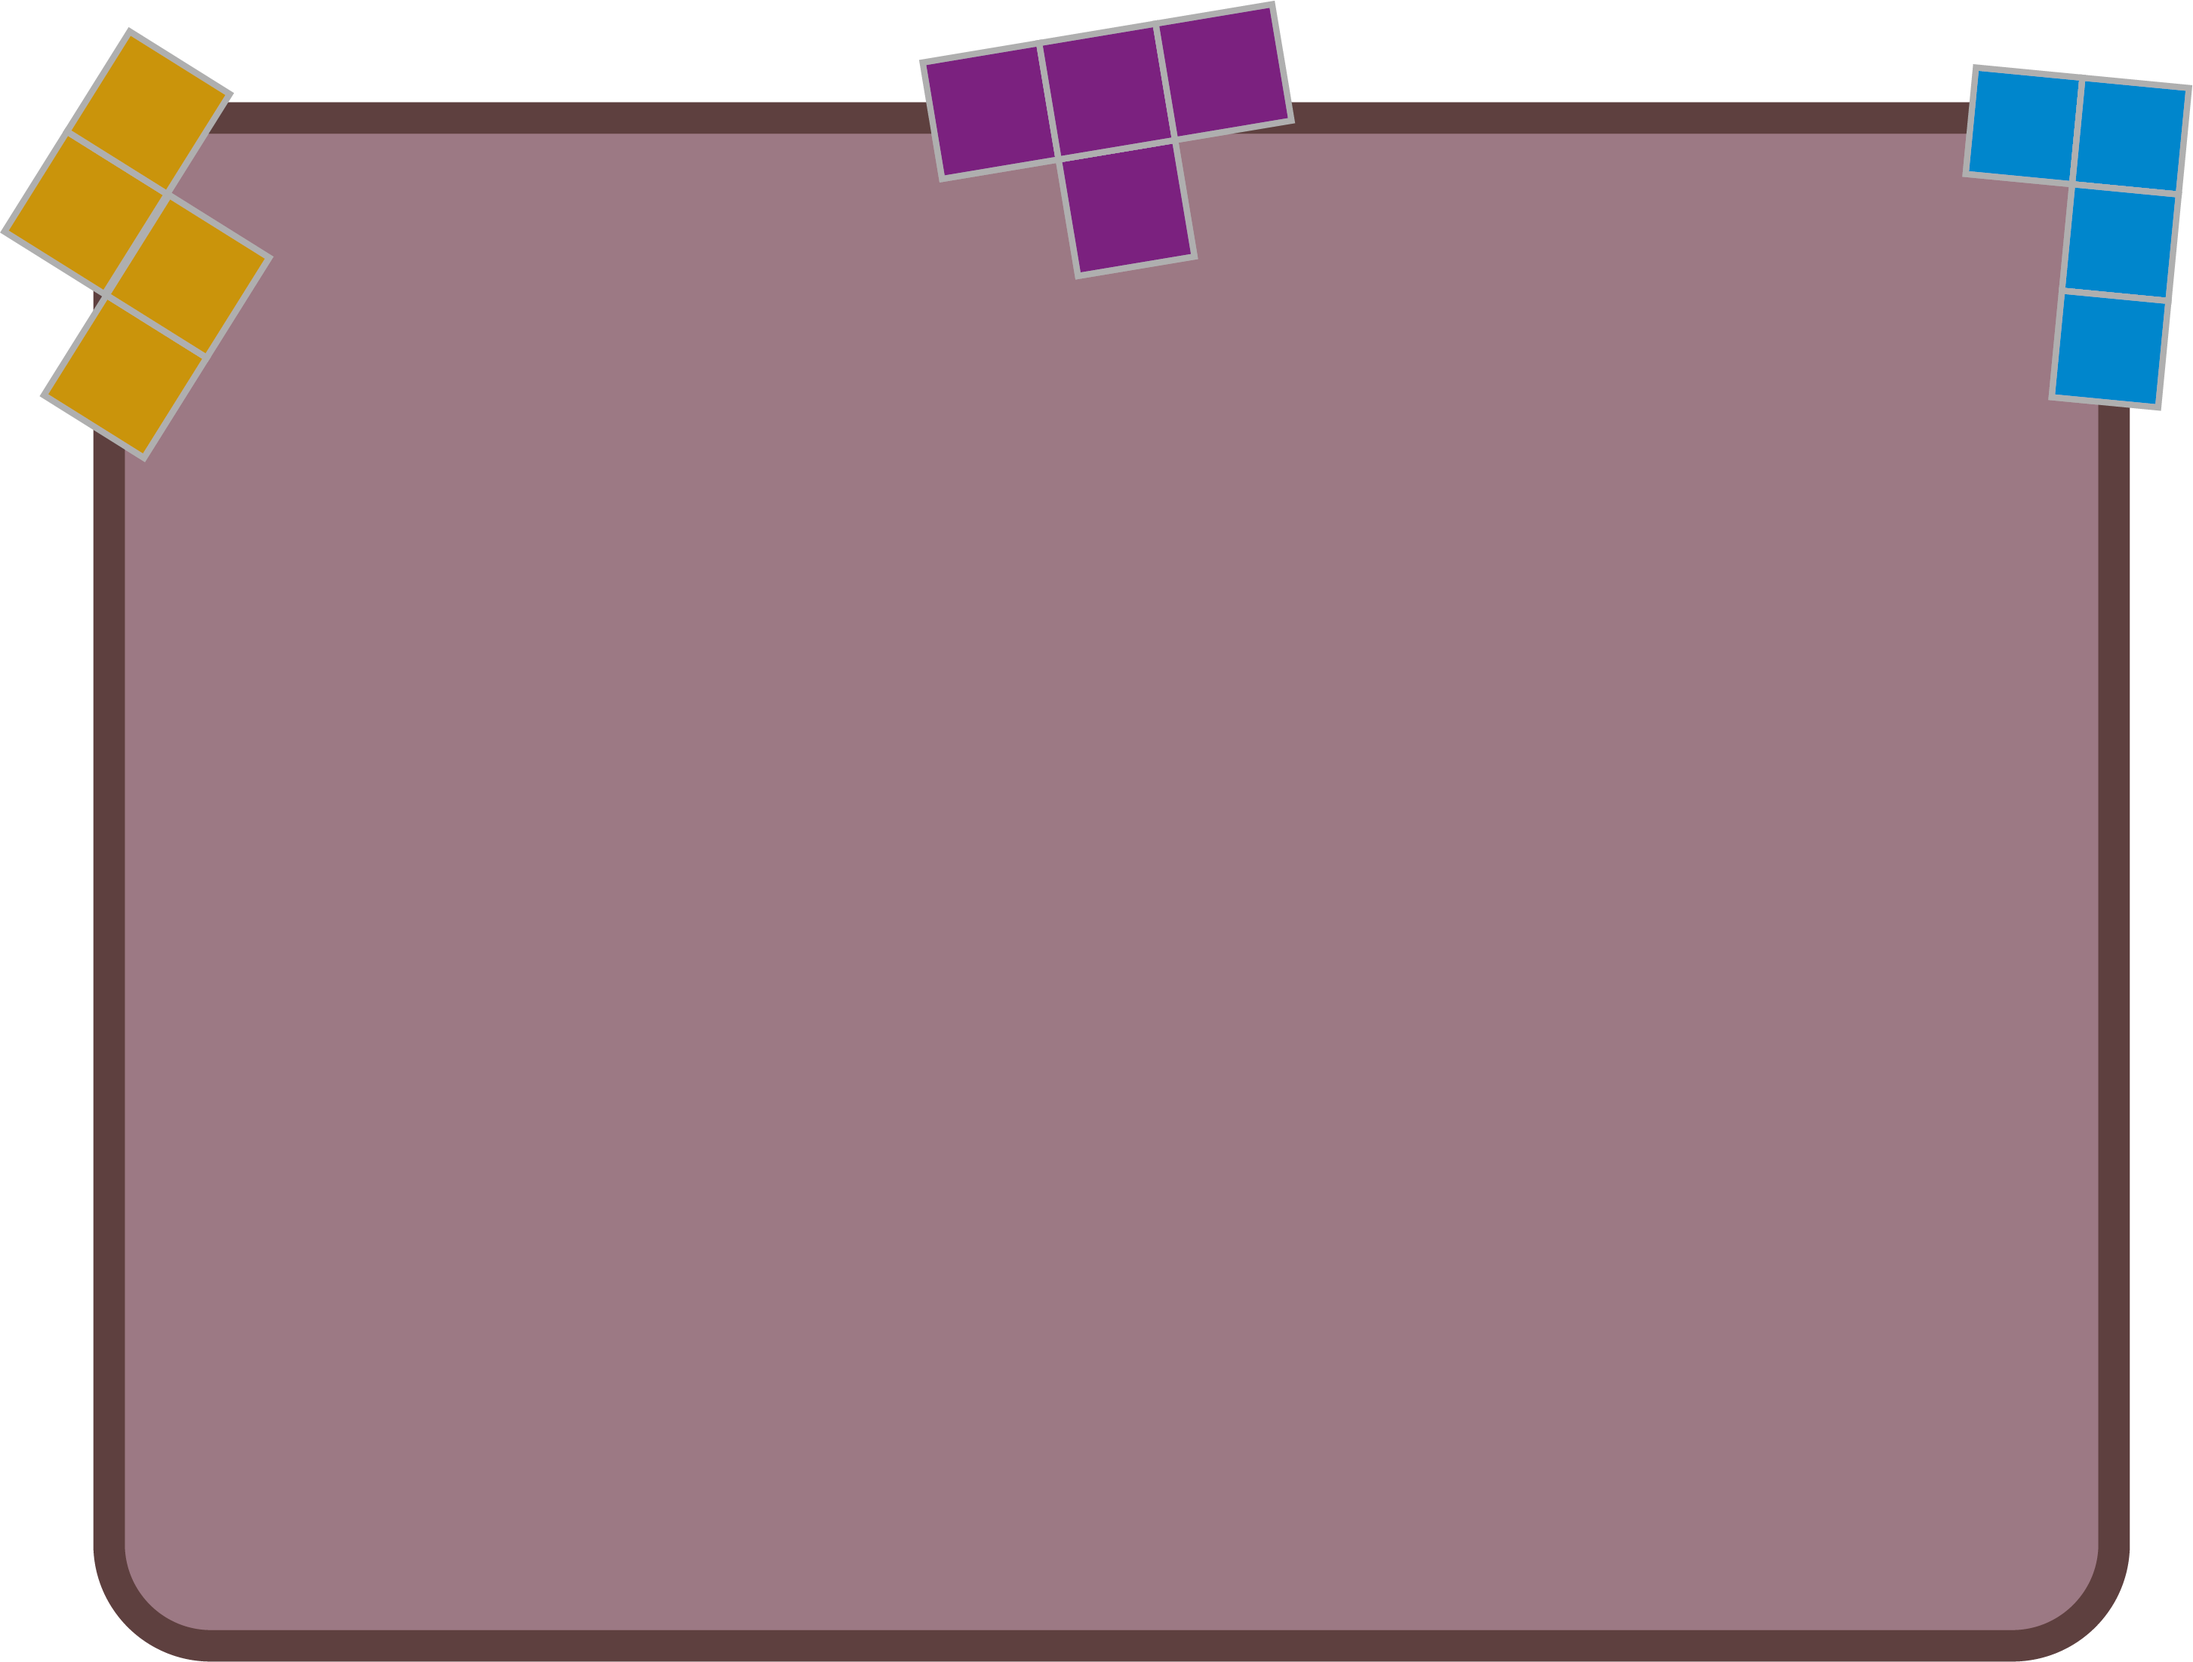
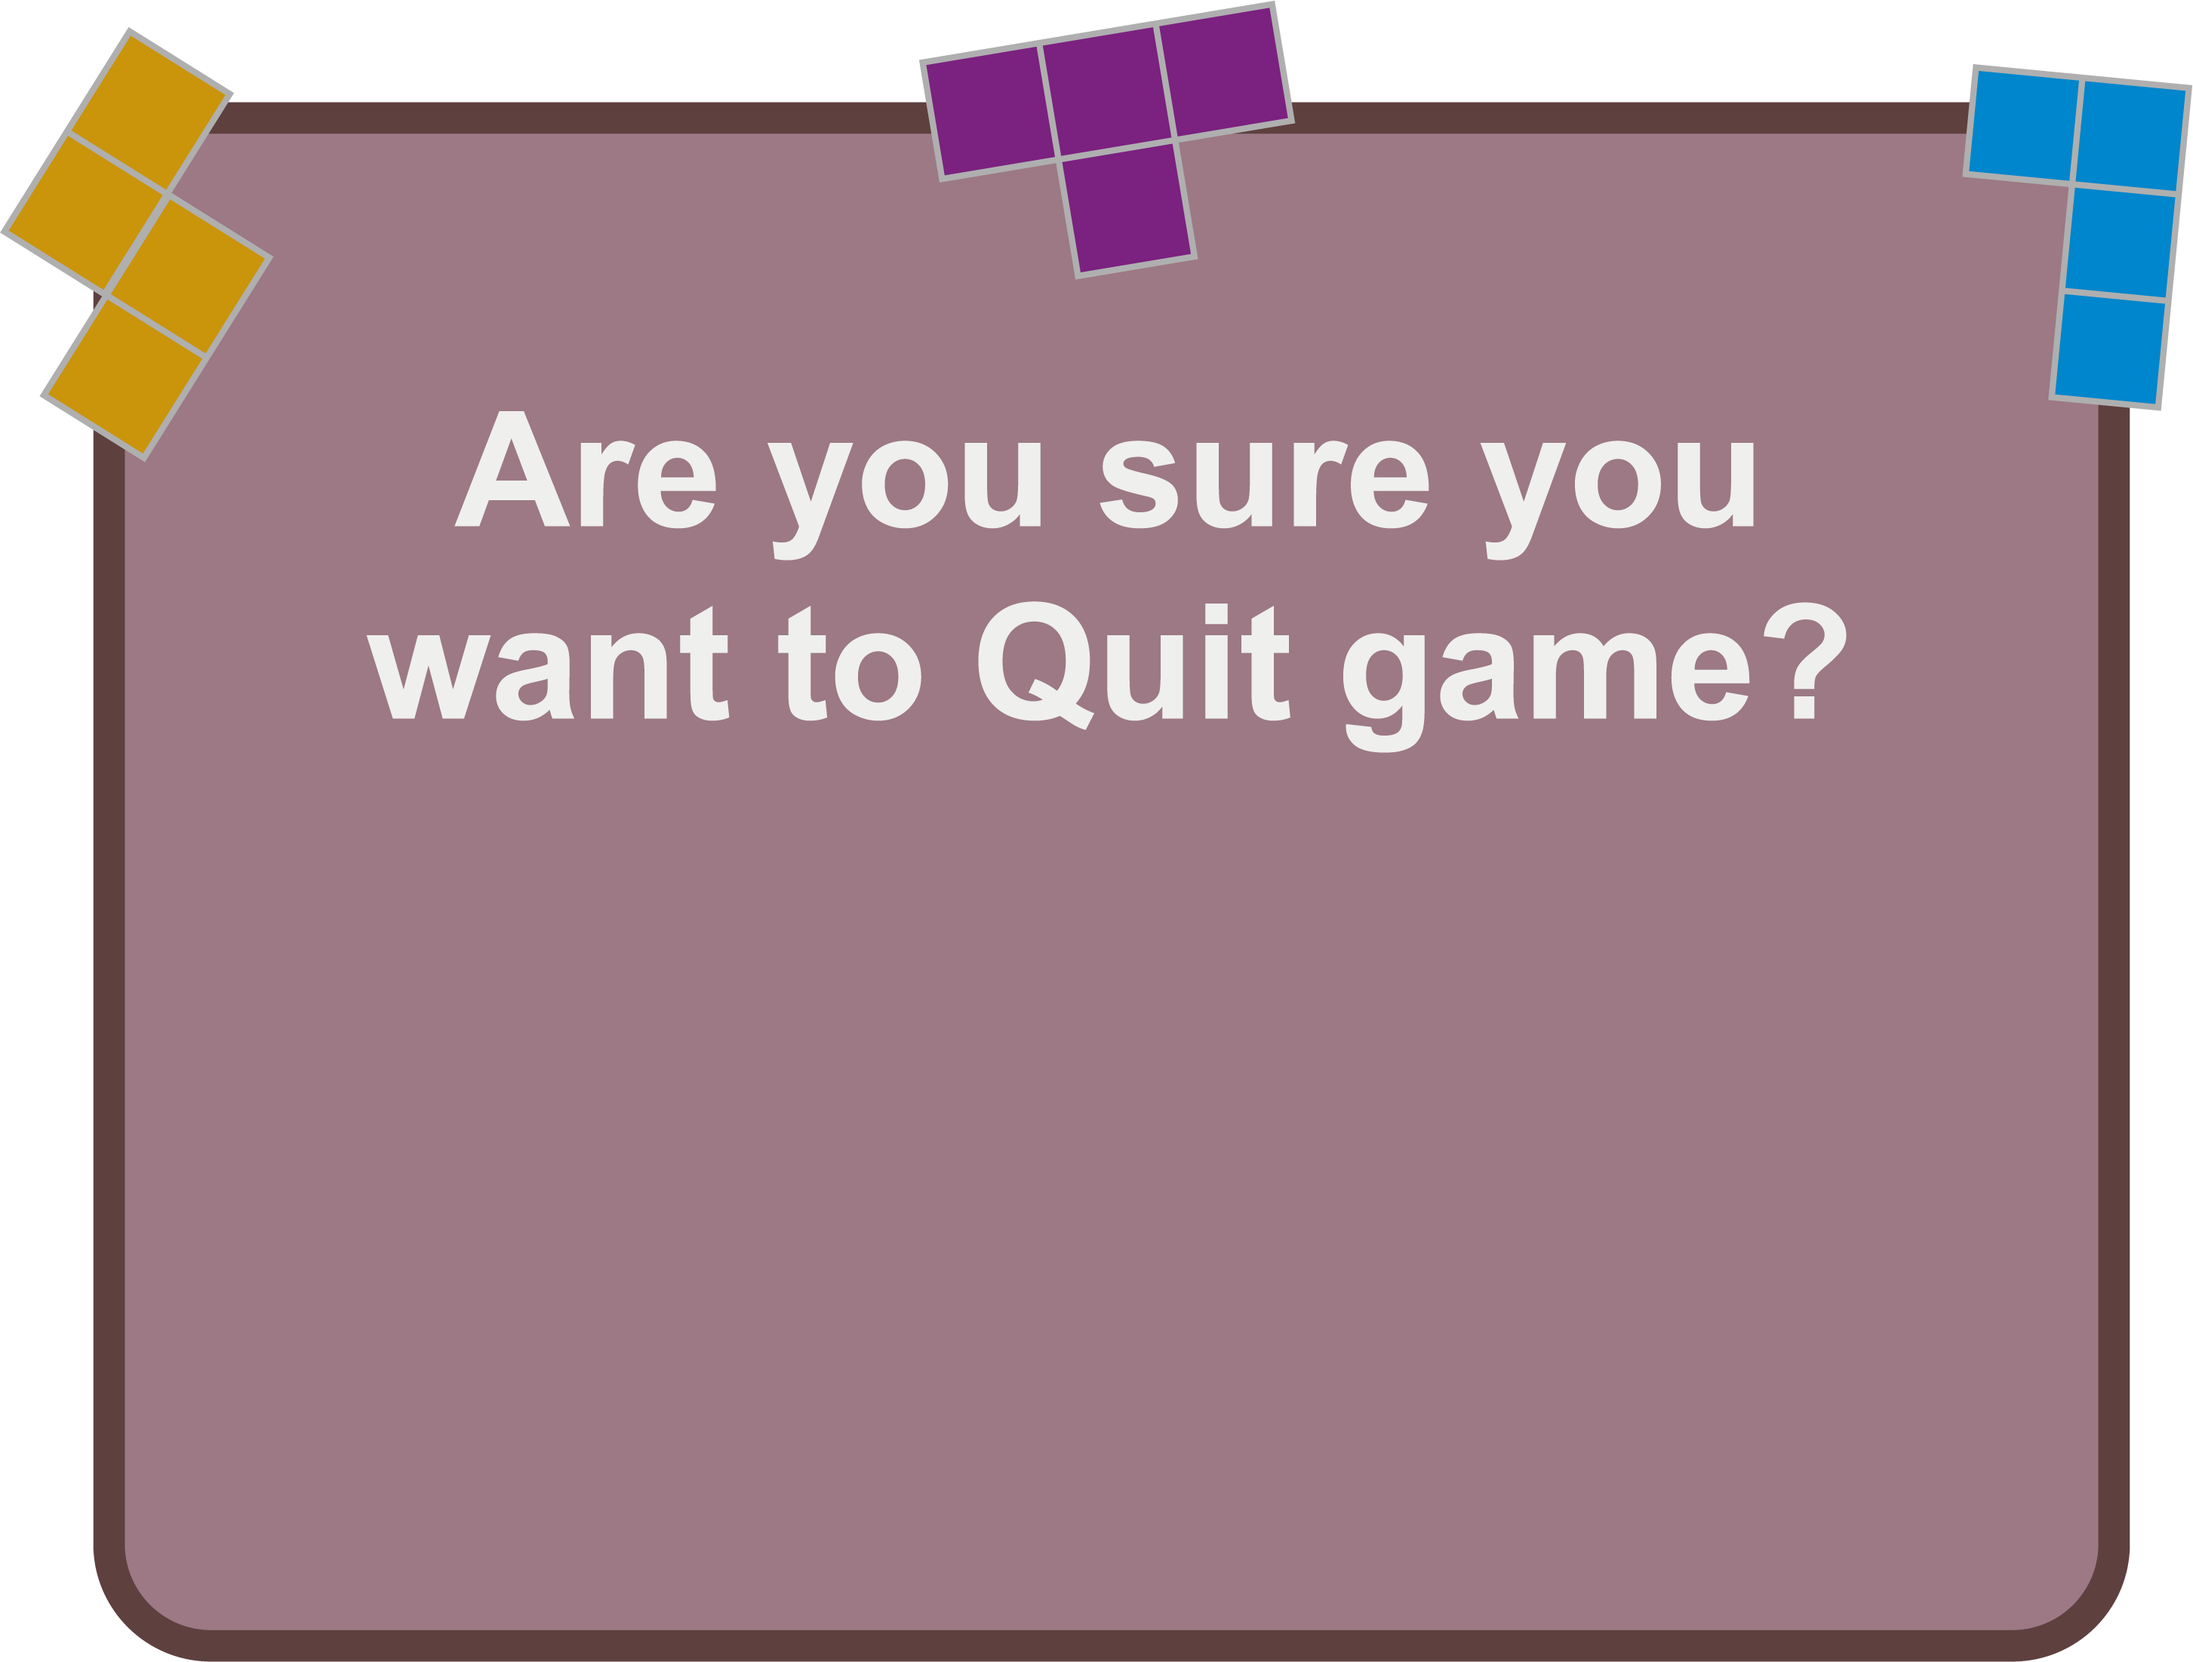
quit button out

Changed region(s): [[0.1549, 0.3395, 0.8672, 0.463], [0.2168, 0.2469, 0.6504, 0.3395], [0.6813, 0.2469, 0.8052, 0.3395]]

diff --git a/Artless/ALEngine/Source/Scripting/Cpp Scripts/Scripts/PauseLogic.cpp b/Artless/ALEngine/Source/Scripting/Cpp Scripts/Scripts/PauseLogic.cpp
@@ -120,6 +120,9 @@ namespace ALEngine
 			quit_yes = Coordinator::Instance()->GetEntityByTag("button_quit_yes");
 			quit_no  = Coordinator::Instance()->GetEntityByTag("button_quit_no");
 
+			CreateEventTrigger(quit_yes);
+			CreateEventTrigger(quit_no);
+
 			Subscribe(quit_yes, Component::EVENT_TRIGGER_TYPE::ON_POINTER_ENTER, WhenQuitYesHover);
 			Subscribe(quit_yes, Component::EVENT_TRIGGER_TYPE::ON_POINTER_EXIT, WhenQuitYesPointerExit);
 
@@ -146,8 +149,17 @@ namespace ALEngine
 				EntityData& ed = Coordinator::Instance()->GetComponent<EntityData>(temp);
 				ed.tag = "hotfix"; SetActive(false, temp);
 			}
-			paused = !paused;
-			SetActive(paused, en);
+
+			if (!Coordinator::Instance()->GetComponent<EntityData>(backdrop).active)
+			{
+				paused = !paused;
+				SetActive(paused, en);
+			}
+			else
+			{
+				Lighten(backdrop);
+				SetActive(false, backdrop);
+			}
 		}
 	}
 
